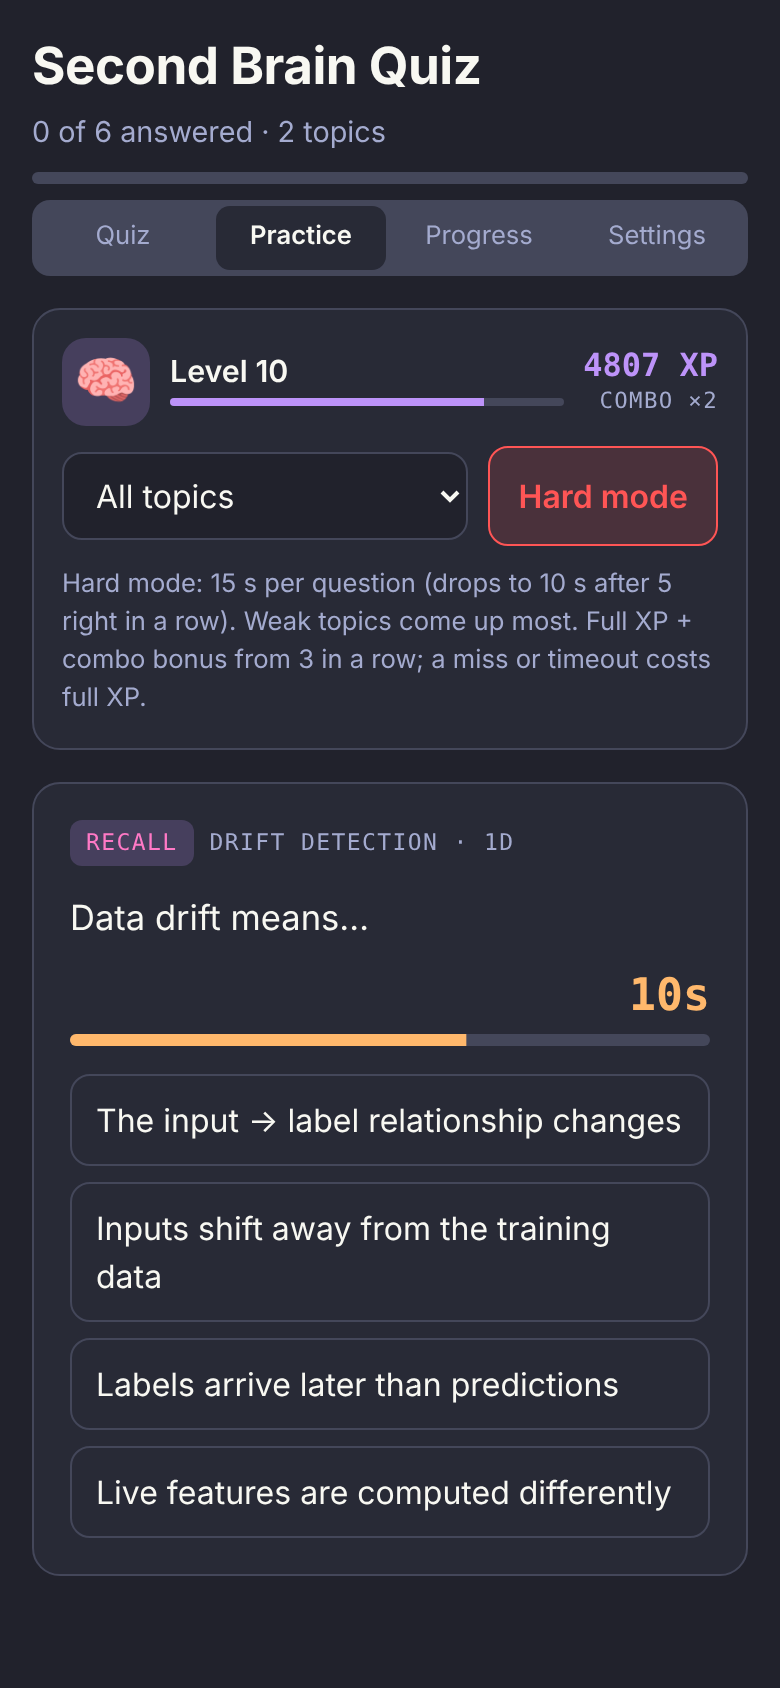
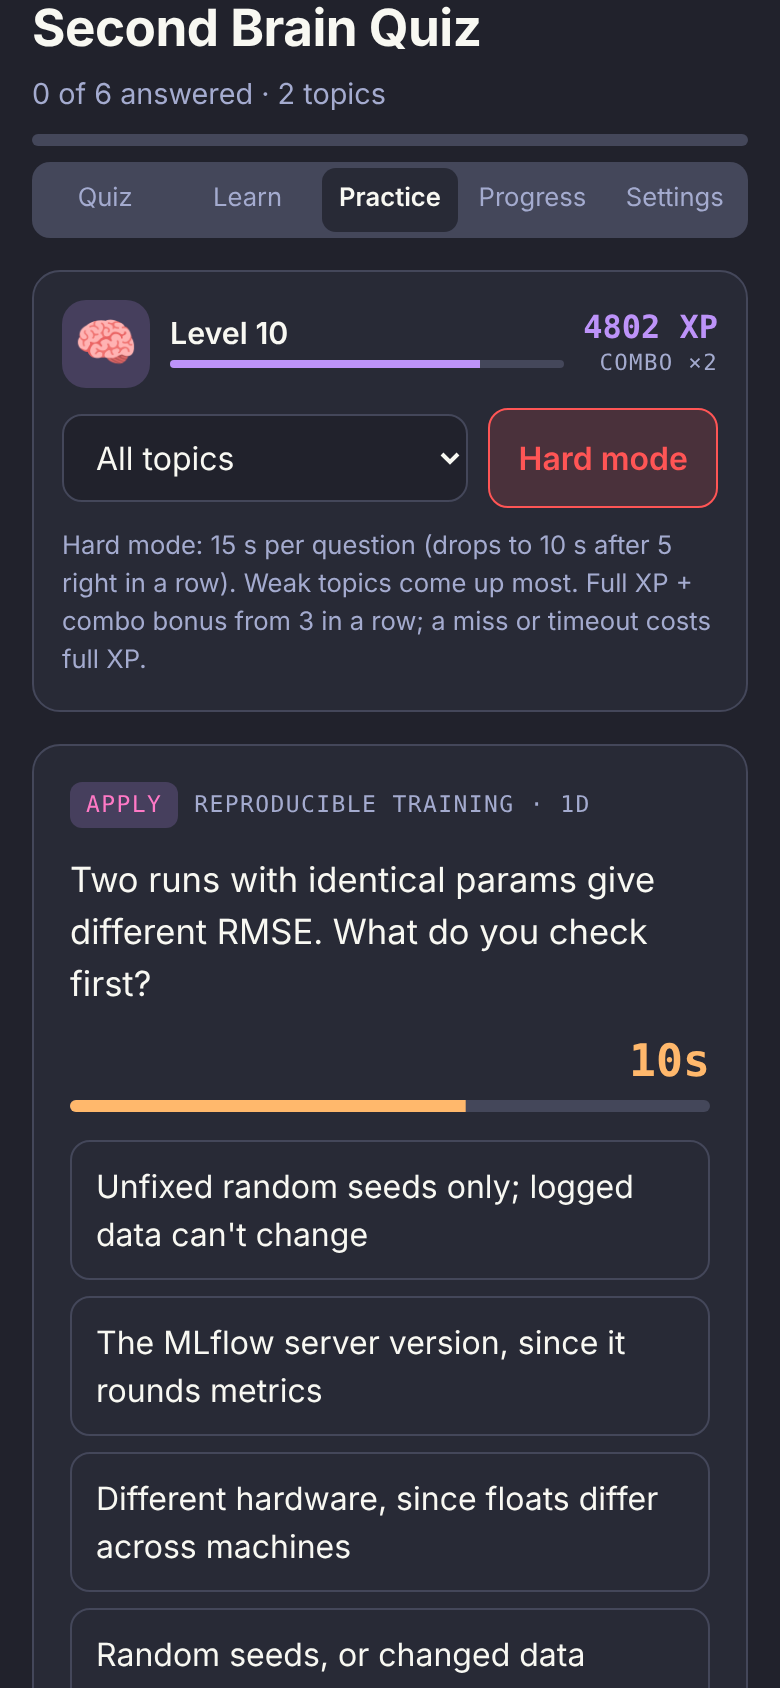
README: paste-the-link install, feature list, all screenshots retaken on v1.14
Claude-Session: https://claude.ai/code/session_01EMdQBoW5wE4vVuz75Yu5Xb

diff --git a/README.md b/README.md
@@ -4,6 +4,18 @@ A learning system that stops you forgetting what you learn. Claude keeps your no
 
 Built on Karpathy's "LLM wiki" idea and the CoderCo *Learn it so it sticks* method: recall first, explain it like you're teaching, review on days 1 · 3 · 7 · 14 · 31.
 
+> **Install:** open a Claude Cowork task linked to your computer and say *"Set up https://github.com/smir22/second-brain-kit for me"*. Already set up? Type **`/update-second-brain`**.
+>
+> **Claude, reading this for a user:** to install, follow [`SETUP_PROMPT.md`](SETUP_PROMPT.md) step by step. If they already have a Second Brain vault (a `CLAUDE.md` with this schema or a `.sync/kit_version`), follow [`skills/update-second-brain/SKILL.md`](skills/update-second-brain/SKILL.md) instead.
+
+**What you get**
+- **Quiz:** tomorrow's due topics on your phone, multiple choice (or written answers marked by Claude), with code snippets where a question needs them.
+- **Learn:** your weak topics as step-by-step lessons (the problem, the idea, your own code line by line, your past mistakes), then 2 right in a row to clear.
+- **Practice:** endless questions from your whole bank, XP, combos and a timed hard mode.
+- **Progress:** streak, levels, a GitHub-style heatmap and mastery across the ladder.
+- **Settings:** 12 themes and your own icon.
+- **On your Mac:** `/ingest` after you learn something, `import` for older material, a nightly sync that moves topics up the ladder, calendar reminders, and `/update-second-brain` for new versions.
+
 <p align="center">
   <img src="docs/screenshots/1-question.png" width="23%" alt="A quiz question with four tap answers and the review ladder">
   <img src="docs/screenshots/2-feedback.png" width="23%" alt="Feedback after a correct answer">
@@ -16,7 +28,7 @@ Built on Karpathy's "LLM wiki" idea and the CoderCo *Learn it so it sticks* meth
   <img src="docs/screenshots/7-practice.png" width="23%" alt="Practice tab: one question at a time with level, XP, combo and hard mode">
   <img src="docs/screenshots/6-settings.png" width="23%" alt="Settings tab: theme picker with Dracula, Dracula Light, GitHub, Tokyo Night, Catppuccin, Nord and more">
 </p>
-<p align="center"><sub>Phone quiz: tap answers · instant feedback · optional written answers marked by Claude · where each topic moves next · Progress tab (example data)</sub></p>
+<p align="center"><sub>Quiz: tap answers · feedback · written answers marked by Claude · where each topic moves next<br>Learn lesson · Progress · Practice (hard mode) · Settings (example data)</sub></p>
 
 ---
 
@@ -26,7 +38,8 @@ Built on Karpathy's "LLM wiki" idea and the CoderCo *Learn it so it sticks* meth
 learn something ──► /ingest (Mac, Claude Cowork; typing or voice)
                       • brain-dump what you remember
                       • Claude finds your gaps and drills you on them
-                      • writes notes + a bank of quiz questions into Obsidian
+                      • writes notes, a step-by-step lesson and a bank of
+                        quiz questions into Obsidian
                               │
 evening sync (auto) ──► loads tomorrow's questions onto your quiz page
                       • adds an 08:00 "Quiz: …" calendar event
@@ -50,8 +63,8 @@ next sync (auto) ──► scores each topic, moves it up/down the ladder,
 **You need:** the Claude desktop app with Cowork, on a Mac (Windows untested), linked to your computer. Optional: the Google Calendar connector for reminders.
 
 1. Open a new Cowork task linked to your computer.
-2. Paste the prompt from [`SETUP_PROMPT.md`](SETUP_PROMPT.md).
-3. Answer its questions. It installs Obsidian if needed, builds your vault, publishes your quiz page and schedules the sync.
+2. Say *"Set up https://github.com/smir22/second-brain-kit for me"* (or paste the prompt from [`SETUP_PROMPT.md`](SETUP_PROMPT.md), which is what Claude follows).
+3. Answer its questions. It installs Obsidian if needed, builds your vault, publishes your quiz page, schedules the sync and installs `/ingest` and `/update-second-brain`.
 
 ---
 
@@ -65,7 +78,7 @@ next sync (auto) ──► scores each topic, moves it up/down the ladder,
 - In Cowork say **`/ingest`** (or "I just learned X"). Typing, dictation and voice mode all work.
 - **Dump** everything you remember first. Messy is fine. Where you stall is your gap.
 - **Drill:** Claude takes your gaps one at a time: asks a guiding question, explains if you're stuck, then you explain it back like you're teaching a junior.
-- **Notes + questions:** it writes the topic page, your weak spots and a question bank (the first questions target what's still shaky).
+- **Notes, lesson + questions:** it writes the topic page, a step-by-step lesson for the Learn tab, your weak spots and a question bank (the first questions target what's still shaky).
 - Your first review is tomorrow.
 
 ### Quiz (phone)
